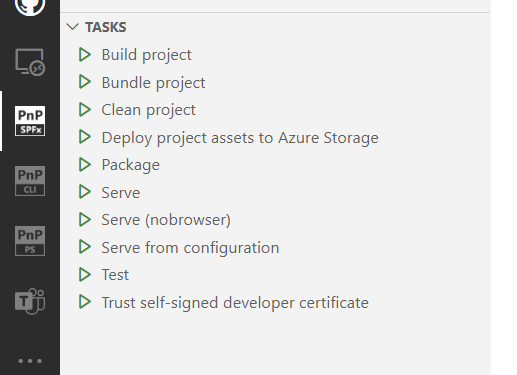
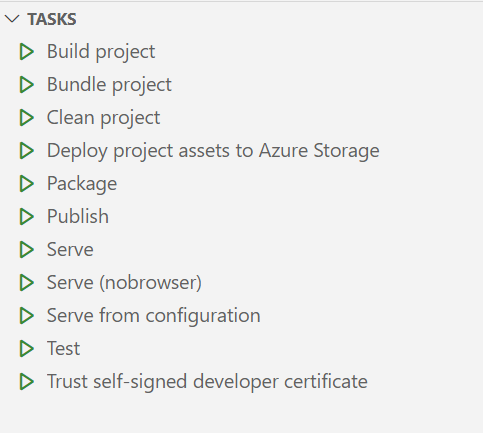
Added Task image and refactored TerminalCommandExecuter

Changed region(s): [[0.0, 0.0, 0.8075, 1.0]]

diff --git a/src/services/executeWrappers/TerminalCommandExecuter.ts b/src/services/executeWrappers/TerminalCommandExecuter.ts
@@ -69,19 +69,6 @@ export class TerminalCommandExecuter {
   }
 
   /**
-     * Prompts the user to select an option from a list.
-     * @param title - The title of the prompt.
-     * @param options - The list of options to choose from.
-     * @returns The selected option or undefined if none was selected.
-   */
-  private static async promptUserForSelection(title: string, options: string[]): Promise<string | undefined> {
-    return await window.showQuickPick(options, {
-      title,
-      ignoreFocusOut: true
-    });
-  }
-
-  /**
    * Serves the project by executing the specified configuration using Gulp.
    * Prompts the user to select a configuration from the serve.json file.
    */
@@ -114,19 +101,6 @@ export class TerminalCommandExecuter {
     commands.executeCommand(Commands.executeTerminalCommand, `gulp serve --config=${answer}`);
   }
 
-  public static async publishProject() {
-    const answer = await TerminalCommandExecuter.promptUserForSelection(
-      'Select the target environment',
-      ['local', 'production']
-    );
-
-    if(!answer) {
-      return;
-    }
-
-    commands.executeCommand(Commands.executeTerminalCommand, `gulp bundle${answer === 'local' ? '' : ' --ship'} && gulp package-solution${answer === 'local' ? '' : ' --ship'}`);
-  }
-
   /**
    * Bundles the project based on the environment type selected by the user.
    */
@@ -147,6 +121,18 @@ export class TerminalCommandExecuter {
 
     if (answer) {
       commands.executeCommand(Commands.executeTerminalCommand, `gulp package-solution${answer === 'local' ? '' : ' --ship'}`);
+    }
+  }
+
+  /**
+   * Prompts the user to select an environment type and executes the appropriate
+   * Gulp command to publish (bundle & package) the project based on the user's selection.
+   */
+  public static async publishProject() {
+    const answer = await TerminalCommandExecuter.environmentTypePrompt();
+
+    if(answer){
+      commands.executeCommand(Commands.executeTerminalCommand, `gulp bundle${answer === 'local' ? '' : ' --ship'} && gulp package-solution${answer === 'local' ? '' : ' --ship'}`);
     }
   }
 
